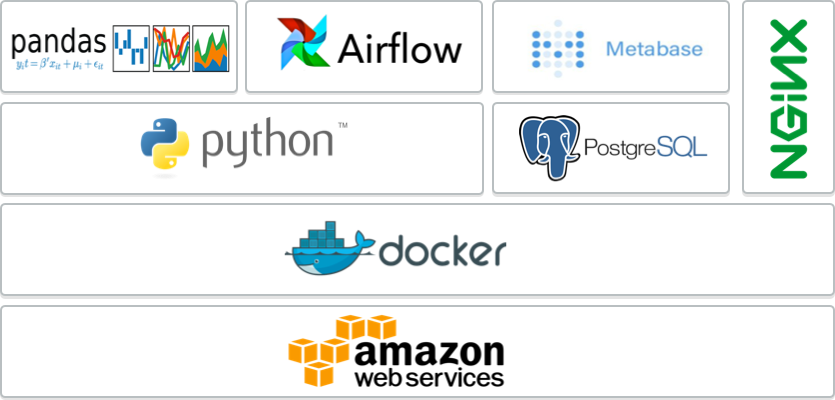
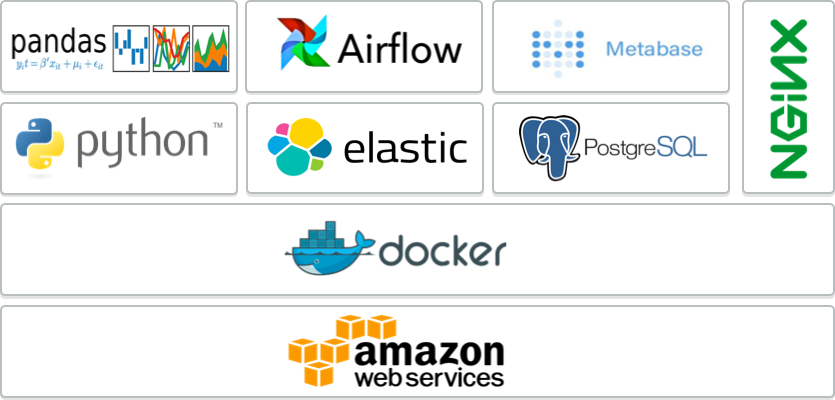
enriqueciendo el README

Changed region(s): [[0.0, 0.24, 0.5605, 0.51]]

diff --git a/README.md b/README.md
@@ -5,15 +5,28 @@ Propuesta de plataforma usando herramientas de ETL, análisis y visualización l
 
 ## Arquitectura
 
+### Esquema general
+![Esquema general](https://github.com/erikriver/mixtli-etc/raw/master/docs/images/esquema-general.png "Esquema general")
 
+### Tecnologías
+![Tecnologías](https://github.com/erikriver/mixtli-etc/raw/master/docs/images/tecnologias.png "Tecnologías")
 
 
 ## Instalación
 
-
+```bash
+$ docker-compose up
+```
 
 
 ## Uso
+
+
+Airflow: [http://localhost:8080 link](http://localhost:8080)
+Metabase: [http://localhost:3000 link](http://localhost:3000)
+Flower: [http://localhost:5555 link](http://localhost:5555)
+Static: [http://localhost link](http://localhost)
+
 
 
 ## Contributing
